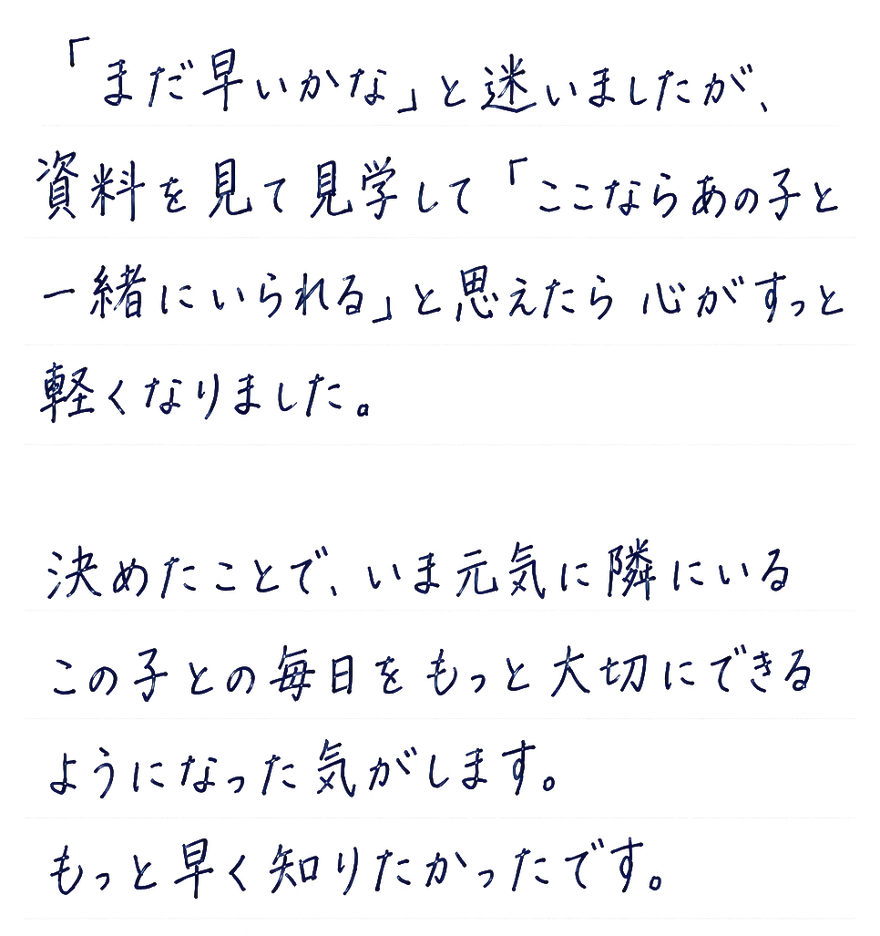
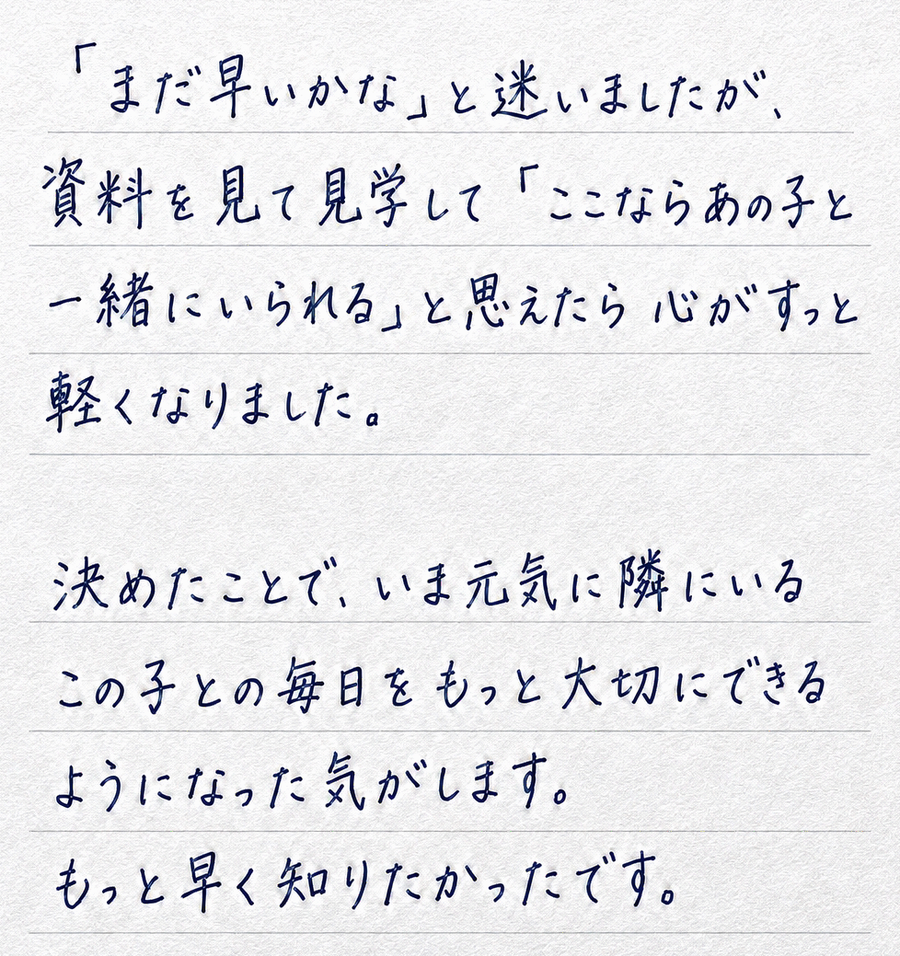
手紙をカード化・見出し拡大・電話CV明色化・背景固定・オファー可読性向上
手書きの声: 透過をやめて紙のカードに戻し、枠線（ルーラー線）をトーンカーブで
  濃くして見えるようにし、影を付けて浮かせた（assets/push-handwritten.png 更新）。

3つのサービス見出し: clamp(19→24) を clamp(22→29)px に拡大。

電話CV: --teal-deep(#0A6E68) → #0C837C に明るく（白文字4.6:1を確保）。
  hover を #0E938B に。

「知ってほしいこと」: 背景（ディゾルブ写真＋ベール）を position:sticky で固定し、
  コンテンツが上を流れるようにした（section の overflow:hidden を解除）。

オファー動画: 本文を拡大（lead 16.5→18／desc 15.5→17／name 19→21px）。
  ベールを rgba(0,0,0,.5/.42/.56) → .66/.6/.72 に濃くして白文字を読みやすくした。

440px / 360px とも横スクロール・はみ出しなしを確認。

diff --git a/index.html b/index.html
@@ -95,13 +95,13 @@ a{color:inherit; text-decoration:none}
 }
 .header__call{
   flex:0 0 auto; display:inline-flex; align-items:center; gap:7px;
-  background:var(--teal-deep); color:#fff;
+  background:#0C837C; color:#fff;
   font-family:var(--sans); font-weight:600; letter-spacing:.04em;
   padding:9px 15px; border-radius:999px;
-  box-shadow:0 6px 16px rgba(10,110,104,.3);
+  box-shadow:0 6px 16px rgba(12,131,124,.34);
   transition:background .2s ease, transform .2s ease;
 }
-.header__call:hover{background:var(--teal); transform:translateY(-1px)}
+.header__call:hover{background:#0E938B; transform:translateY(-1px)}
 .header__call svg{width:15px; height:15px; flex:0 0 auto}
 .header__call-txt{display:flex; flex-direction:column; line-height:1.15; text-align:left}
 .header__call-txt small{font-size:9.5px; font-weight:500; letter-spacing:.06em; opacity:.9}
@@ -360,11 +360,12 @@ a{color:inherit; text-decoration:none}
 /* =========================================================================
    知ってほしいこと（埋葬期限）
    ========================================================================= */
-.sec--know{position:relative; overflow:hidden; padding:78px 18px 86px; text-align:center; background:var(--bg-deep)}
+.sec--know{position:relative; padding:78px 18px 86px; text-align:center; background:var(--bg-deep)}
 /* 背景写真3枚をディゾルブで切り替える。
    1枚目は容器の背景にも敷いてあるので、切り替えの合間に地が抜けることはない */
 .know__bg{
-  position:absolute; inset:0; z-index:0; overflow:hidden;
+  position:sticky; top:0; height:100svh; margin-bottom:-100svh;
+  z-index:0; overflow:hidden;
   background:var(--bg-deep) url(assets/know-bg-1.jpg) center/cover no-repeat;
 }
 .know__bg-img{
@@ -513,8 +514,8 @@ a{color:inherit; text-decoration:none}
 .feature--wide .feature__media{flex:none; width:100%; height:auto; aspect-ratio:16/10; margin-bottom:18px}
 .feature__ttl{
   font-family:var(--serif); font-weight:700; letter-spacing:.02em;
-  font-size:clamp(19px,calc(var(--vw,100vw)*5.4/100),24px);
-  line-height:1.6; color:var(--text); margin:0;
+  font-size:clamp(22px,calc(var(--vw,100vw)*6.4/100),29px);
+  line-height:1.55; color:var(--text); margin:0;
 }
 /* 番号は見出しの上に置く。見出しと同じ行に入れると幅を食い、末尾1文字が落ちるため */
 .feature__num{
@@ -582,7 +583,7 @@ a{color:inherit; text-decoration:none}
 /* 動画背景版 */
 .offer--video{background:var(--bg-deep)}
 .offer--video video{position:absolute; inset:0; width:100%; height:100%; object-fit:cover}
-.offer__veil{position:absolute; inset:0; z-index:1; background:linear-gradient(180deg, rgba(0,0,0,.5) 0%, rgba(0,0,0,.42) 45%, rgba(0,0,0,.56) 100%)}
+.offer__veil{position:absolute; inset:0; z-index:1; background:linear-gradient(180deg, rgba(0,0,0,.66) 0%, rgba(0,0,0,.6) 45%, rgba(0,0,0,.72) 100%)}
 .offer--video .offer__ttl,.offer--video .offer__lead,.offer--video .offer__name{color:#fff}
 .offer--video .offer__ttl{text-shadow:0 2px 4px rgba(0,0,0,.6), 0 4px 20px rgba(0,0,0,.55)}
 .offer--video .offer__lead,.offer--video .offer__desc{color:#fbf6ec; text-shadow:0 2px 4px rgba(0,0,0,.7)}
@@ -594,16 +595,16 @@ a{color:inherit; text-decoration:none}
   color:var(--teal-deep); margin-bottom:16px;
 }
 .offer__ttl > span{display:block; white-space:nowrap}
-.offer__lead{font-size:16.5px; line-height:2; color:var(--muted); letter-spacing:.02em; max-width:400px; margin:0 auto 34px}
+.offer__lead{font-size:18px; line-height:2; color:var(--muted); letter-spacing:.02em; max-width:420px; margin:0 auto 34px}
 .offer__rows{max-width:480px; margin:0 auto; text-align:left; border-top:1px solid var(--line)}
 .offer__row{padding:24px 4px}
 .offer__row + .offer__row{border-top:1px solid var(--line)}
 .offer__name{
   display:flex; align-items:center; gap:9px; margin-bottom:8px;
-  font-family:var(--serif); font-weight:700; font-size:19px; letter-spacing:.03em; color:var(--text);
+  font-family:var(--serif); font-weight:700; font-size:21px; letter-spacing:.03em; color:var(--text);
 }
 .offer__name svg{flex:0 0 auto; width:23px; height:23px; stroke:var(--gold); fill:none; stroke-width:1.6; stroke-linecap:round; stroke-linejoin:round}
-.offer__desc{font-size:15.5px; line-height:1.9; color:var(--muted); letter-spacing:.02em; margin-bottom:16px}
+.offer__desc{font-size:17px; line-height:1.95; color:var(--muted); letter-spacing:.02em; margin-bottom:16px}
 /* 「無理な営業はいたしません」 */
 .promise{max-width:460px; margin:40px auto 0; padding-top:26px; border-top:1px solid var(--line); text-align:left}
 .offer--video .promise{border-top-color:rgba(255,255,255,.24)}
@@ -678,9 +679,12 @@ a{color:inherit; text-decoration:none}
 .push__meta svg{flex:0 0 auto; width:22px; height:22px; fill:var(--gold)}
 .push__meta span{display:block; font-weight:500; font-size:12.5px; color:var(--muted); letter-spacing:.04em}
 .push__body{font-family:var(--serif); font-weight:500; font-size:17px; line-height:2.05; letter-spacing:.02em; color:var(--text)}
-/* 手書きの声（紙の下地は透過済み・地に直接乗せる） */
-.push__hand{margin:4px 0 0}
-.push__hand img{width:100%; max-width:400px; display:block}
+/* 手書きの声（紙のカード：枠線が見える／影で浮かせる） */
+.push__hand{
+  margin:6px 0 0; max-width:420px; overflow:hidden; border-radius:var(--radius);
+  box-shadow:0 22px 44px -12px rgba(60,45,20,.34), 0 8px 18px -8px rgba(60,45,20,.24);
+}
+.push__hand img{width:100%; display:block}
 .sec--push .replace-note{color:var(--muted); text-align:left; max-width:480px; margin:26px auto 0}
 
 /* =========================================================================
